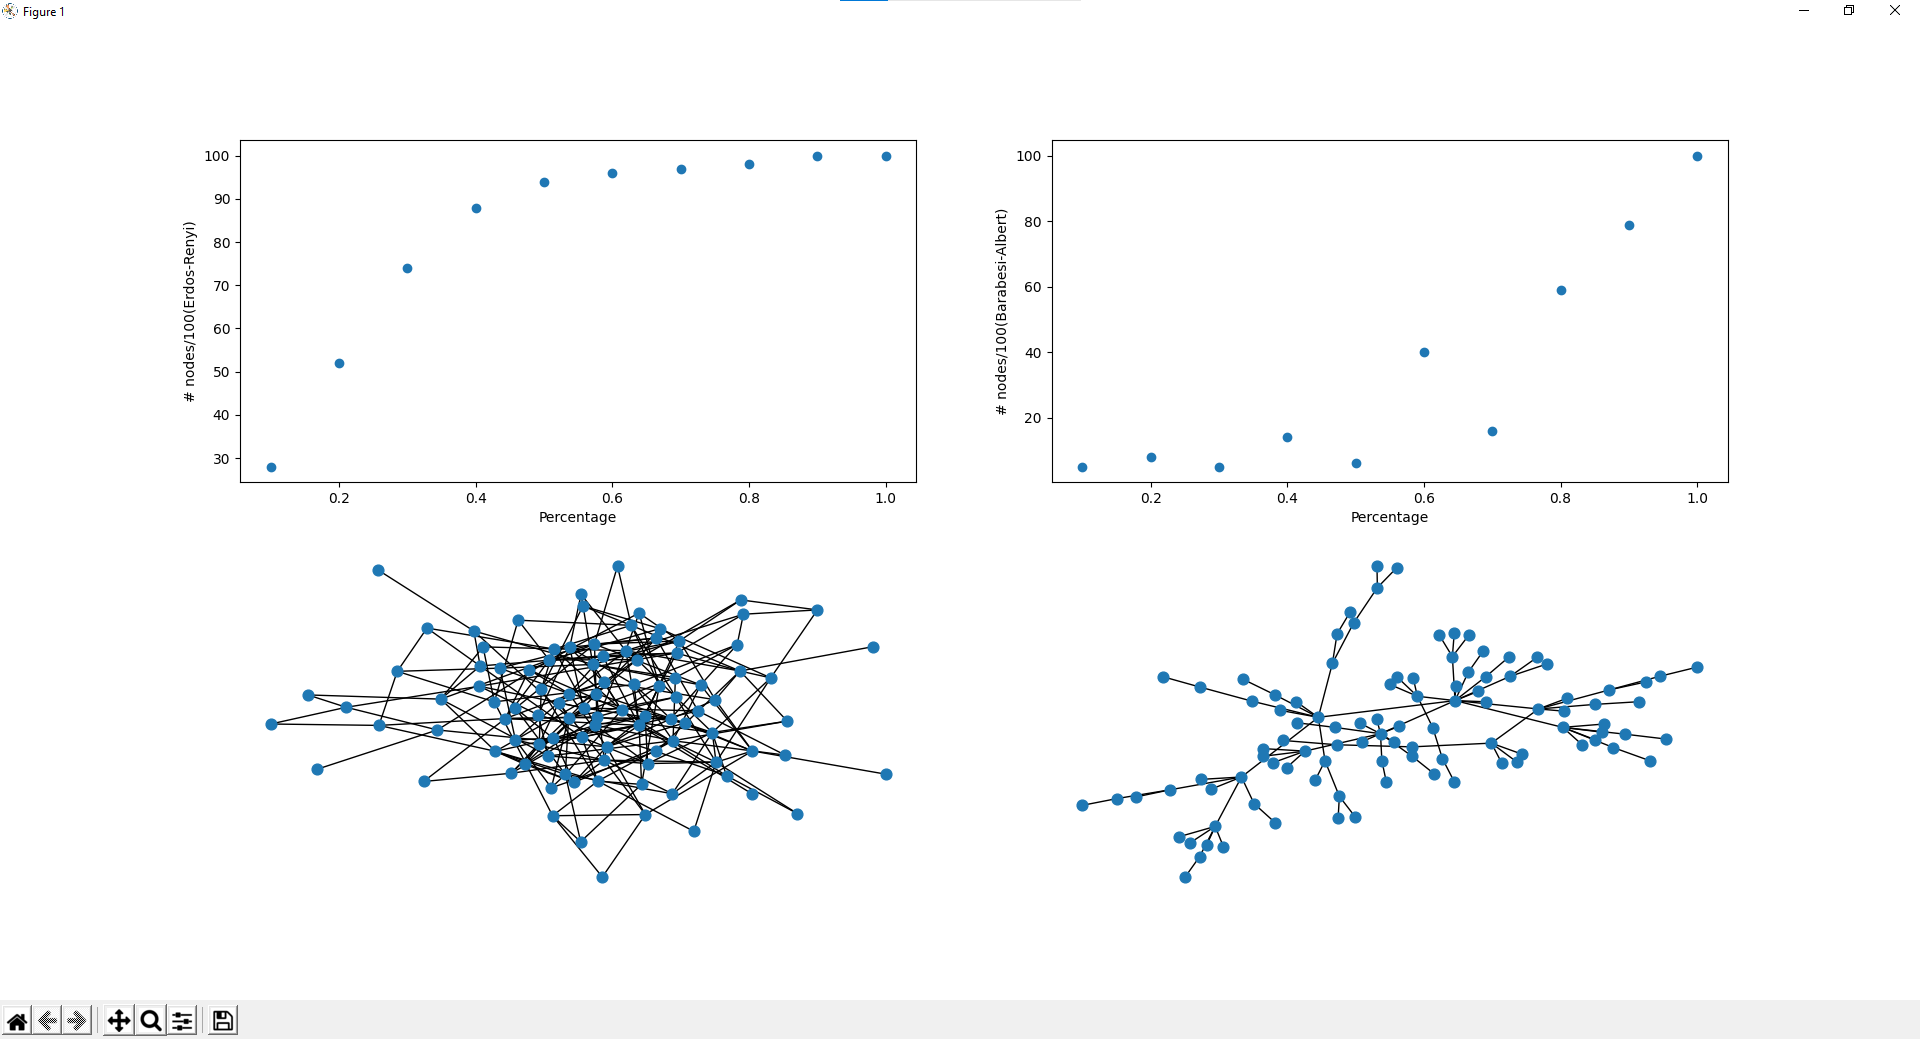
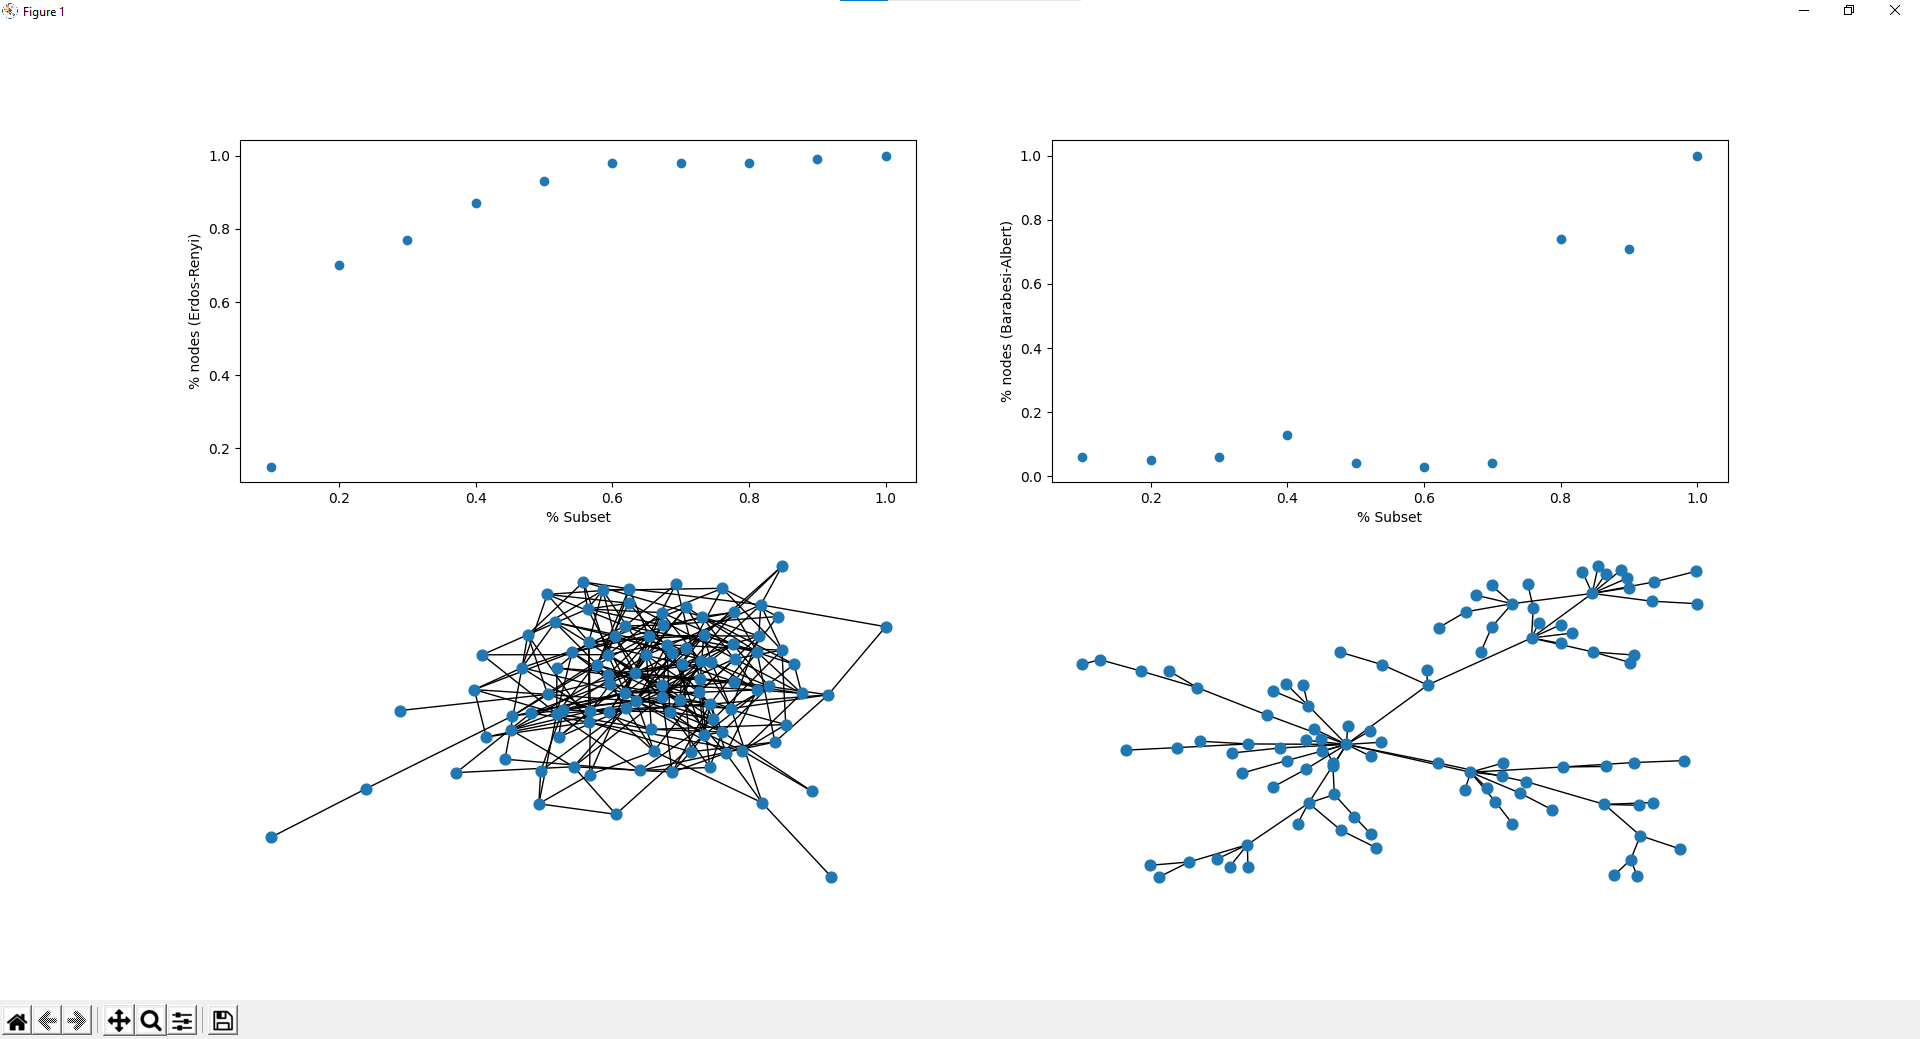
tweak gossip

diff --git a/guioes/guiao03/guiao03.py b/guioes/guiao03/guiao03.py
@@ -49,7 +49,7 @@ def gossip(graph, n, percentage):
                 seen[node] = True
         counter += 1
         neighbors = new_neighbors
-    return sum(i == True for i in seen)
+    return sum(i == True for i in seen) / n
 
 def flooding_plot(nr_nodes): 
     iterations = range(nr_nodes + 1)
@@ -93,13 +93,13 @@ def gossip_plot(nr_nodes):
 
     plot.subplot(2, 2, 1)
     plot.scatter(x, y1)
-    plot.xlabel('Percentage')
-    plot.ylabel('# nodes/' + str(nr_nodes) + '(Erdos-Renyi)')
+    plot.xlabel('% Subset')
+    plot.ylabel('% nodes (Erdos-Renyi)')
 
     plot.subplot(2, 2, 2)
     plot.scatter(x, y2)
-    plot.xlabel('Percentage')
-    plot.ylabel('# nodes/' + str(nr_nodes) + '(Barabesi-Albert)')
+    plot.xlabel('% Subset')
+    plot.ylabel('% nodes (Barabesi-Albert)')
 
     plot.subplot(2, 2, 3)
     nx.draw(graph1,node_size=60,font_size=8) 
